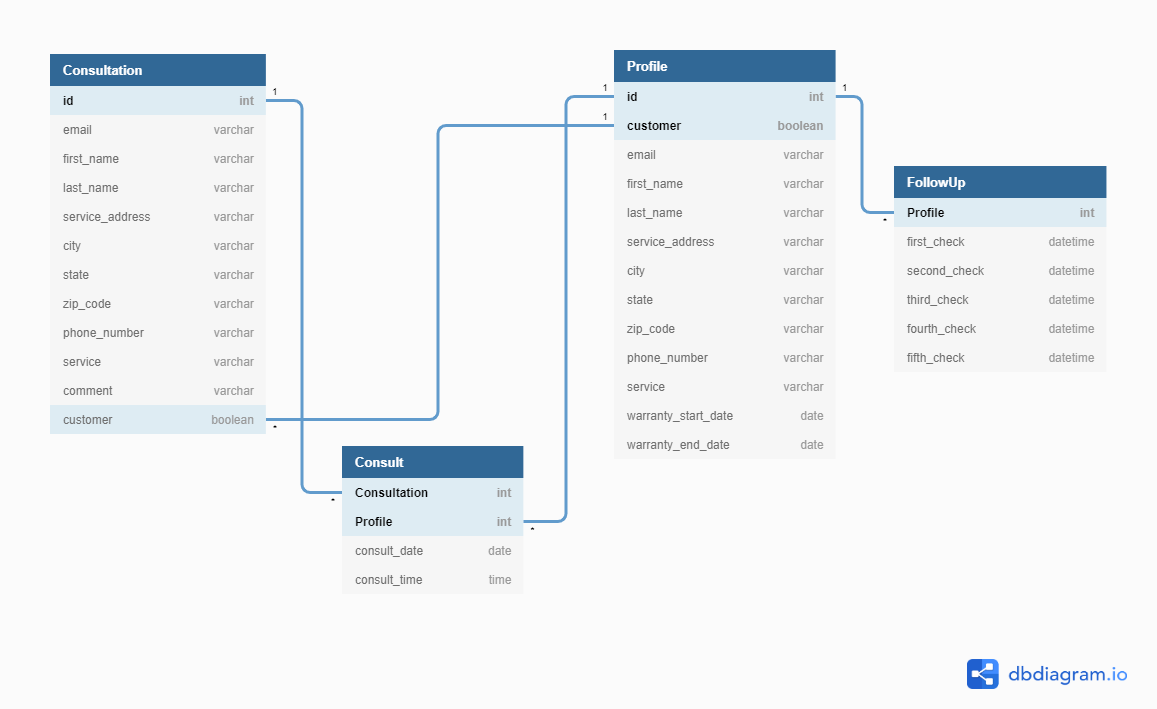
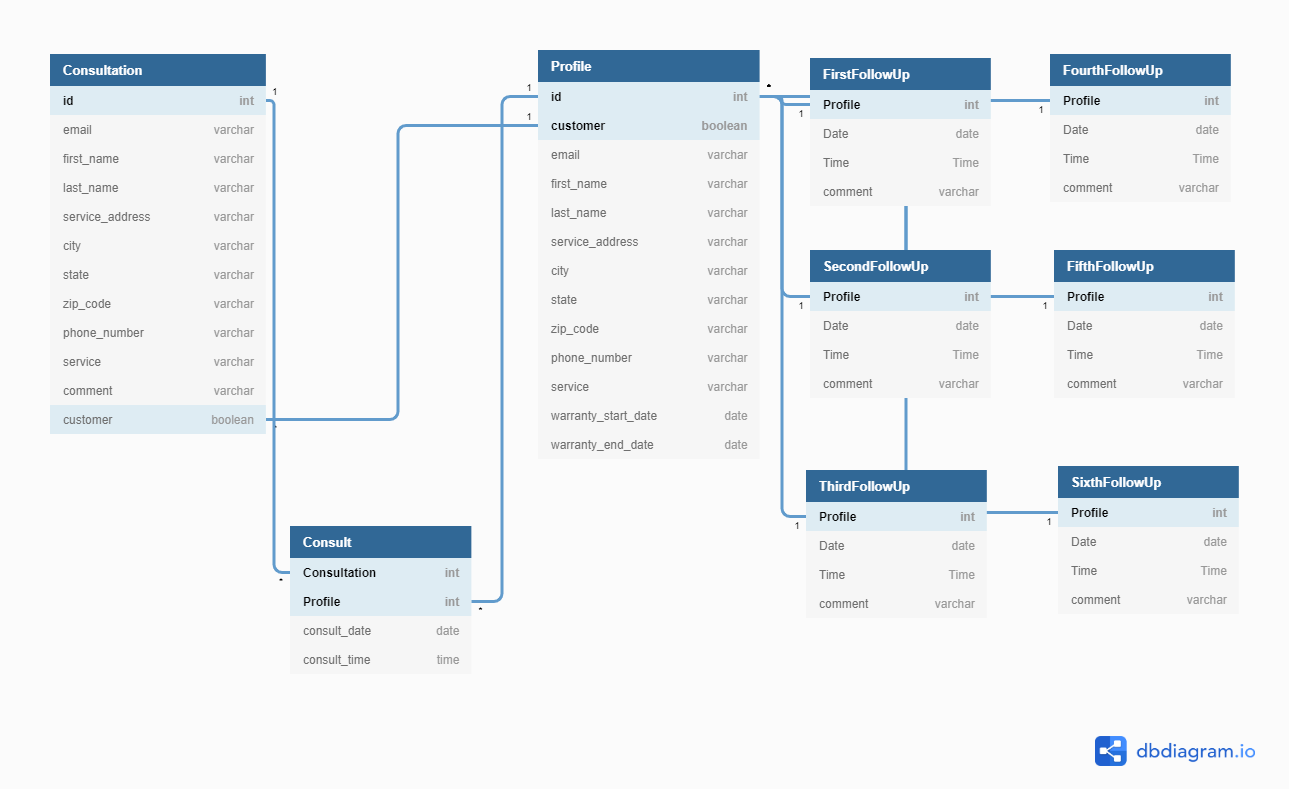
separated Appt models to have 1,2,3,4,5,6 follow up and reflect it to the forms.py

diff --git a/Attic/forms.py b/Attic/forms.py
@@ -1,4 +1,5 @@
 from django import forms
+from Appointment.models import *
 from .models import *
 
 
@@ -21,10 +22,71 @@ class ConsultForm(forms.ModelForm):
                                widget=forms.TextInput(attrs={'class': "form-control"}))
     comment = forms.CharField(label='Additional Comments (Not Required)', max_length=500, required=False,
                               widget=forms.Textarea)
-    consult_date = forms.DateField(label='Date', required=True, widget=forms.DateInput(attrs={'class': "form-control"}))
-    consult_time = forms.TimeField(label='Date', required=True, widget=forms.TimeInput())
 
     class Meta:
         model = Consultation
         fields = ('email', 'first_name', 'last_name', 'phone_number', 'service', 'service_address', 'city', 'state',
                   'zip_code', 'comment')
+
+
+class AppointmentForm(forms.ModelForm):
+    consult_date = forms.DateField(label='Date', required=True, widget=forms.DateInput(attrs={'class': "form-control"}))
+    consult_time = forms.TimeField(label='Date', required=True, widget=forms.TimeInput())
+
+    class Meta:
+        model = Consult
+        fields = ('consult_date', 'consult_time')
+
+
+class FirstFollowUpForm(forms.ModelForm):
+    date = forms.DateField(label='Date', required=True, widget=forms.DateInput(attrs={'class': "form-control"}))
+    time = forms.TimeField(label='Date', required=True, widget=forms.TimeInput())
+
+    class Meta:
+        model = FirstFollowUp
+        fields = ('date', 'time')
+
+
+class SecondFollowUpForm(forms.ModelForm):
+    date = forms.DateField(label='Date', required=True, widget=forms.DateInput(attrs={'class': "form-control"}))
+    time = forms.TimeField(label='Date', required=True, widget=forms.TimeInput())
+
+    class Meta:
+        model = SecondFollowUp
+        fields = ('date', 'time')
+
+
+class ThirdFollowUpForm(forms.ModelForm):
+    date = forms.DateField(label='Date', required=True, widget=forms.DateInput(attrs={'class': "form-control"}))
+    time = forms.TimeField(label='Date', required=True, widget=forms.TimeInput())
+
+    class Meta:
+        model = ThirdFollowUp
+        fields = ('date', 'time')
+
+
+class FourthFollowUpForm(forms.ModelForm):
+    date = forms.DateField(label='Date', required=True, widget=forms.DateInput(attrs={'class': "form-control"}))
+    time = forms.TimeField(label='Date', required=True, widget=forms.TimeInput())
+
+    class Meta:
+        model = FourthFollowUp
+        fields = ('date', 'time')
+
+
+class FifthFollowUpForm(forms.ModelForm):
+    date = forms.DateField(label='Date', required=True, widget=forms.DateInput(attrs={'class': "form-control"}))
+    time = forms.TimeField(label='Date', required=True, widget=forms.TimeInput())
+
+    class Meta:
+        model = FifthFollowUp
+        fields = ('date', 'time')
+
+
+class SixthFollowUpForm(forms.ModelForm):
+    date = forms.DateField(label='Date', required=True, widget=forms.DateInput(attrs={'class': "form-control"}))
+    time = forms.TimeField(label='Date', required=True, widget=forms.TimeInput())
+
+    class Meta:
+        model = SixthFollowUp
+        fields = ('date', 'time')

diff --git a/Appointment/models.py b/Appointment/models.py
@@ -1,4 +1,3 @@
-from django.contrib.auth.models import User
 from django.db import models
 from Attic.models import Profile, Consultation
 
@@ -17,13 +16,61 @@ class Consult(models.Model):
         return Consult.objects.all().filter(Appointment_id=self.id)
 
 
-class FollowUp(models.Model):
+class FirstFollowUp(models.Model):
     profile = models.ForeignKey(Profile, on_delete=models.CASCADE, default='')
-    first_check = models.DateTimeField(default='')
-    second_check = models.DateTimeField(default='')
-    third_check = models.DateTimeField(default='')
-    fourth_check = models.DateTimeField(default='')
-    fifth_check = models.DateTimeField(default='')
+    date = models.DateField(default='')
+    time = models.TimeField(default='')
+    comment = models.CharField(max_length= 150, default='')
+
+    def __str__(self):
+        return self.profile
+
+
+class SecondFollowUp(models.Model):
+    profile = models.ForeignKey(Profile, on_delete=models.CASCADE, default='')
+    date = models.DateField(default='')
+    time = models.TimeField(default='')
+    comment = models.CharField(max_length= 150, default='')
+
+    def __str__(self):
+        return self.profile
+
+
+class ThirdFollowUp(models.Model):
+    profile = models.ForeignKey(Profile, on_delete=models.CASCADE, default='')
+    date = models.DateField(default='')
+    time = models.TimeField(default='')
+    comment = models.CharField(max_length=150, default='')
+
+    def __str__(self):
+        return self.profile
+
+
+class FourthFollowUp(models.Model):
+    profile = models.ForeignKey(Profile, on_delete=models.CASCADE, default='')
+    date = models.DateField(default='')
+    time = models.TimeField(default='')
+    comment = models.CharField(max_length=150, default='')
+
+    def __str__(self):
+        return self.profile
+
+
+class FifthFollowUp(models.Model):
+    profile = models.ForeignKey(Profile, on_delete=models.CASCADE, default='')
+    date = models.DateField(default='')
+    time = models.TimeField(default='')
+    comment = models.CharField(max_length=150, default='')
+
+    def __str__(self):
+        return self.profile
+
+
+class SixthFollowUp(models.Model):
+    profile = models.ForeignKey(Profile, on_delete=models.CASCADE, default='')
+    date = models.DateField(default='')
+    time = models.TimeField(default='')
+    comment = models.CharField(max_length=150, default='')
 
     def __str__(self):
         return self.profile

diff --git a/Attic/models.py b/Attic/models.py
@@ -33,7 +33,7 @@ class Consultation(models.Model):
     customer = models.BooleanField(default=False)
 
     def __str__(self):
-        return self.Consultations
+        return self.Consultation
 
     @property
     def consult_filtering(self):
